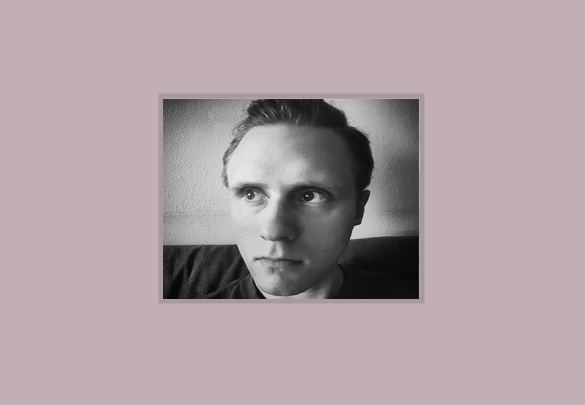
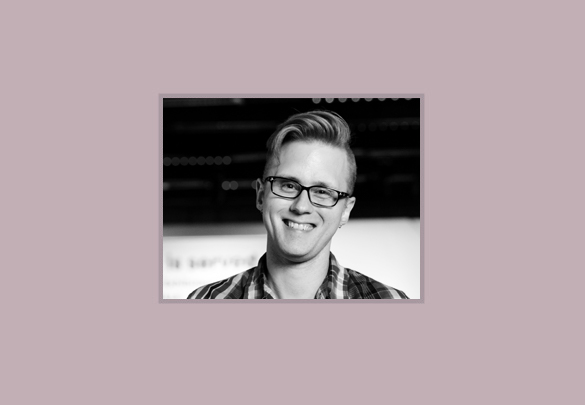
Add new organiser photos

Changed region(s): [[0.2769, 0.237, 0.7385, 0.7407]]

diff --git a/README.md b/README.md
@@ -1,1 +1,2 @@
-# Vitis-Events.github.io
+# Vitis Events Web Site
+This is the web site source for http://vitisevents.com. It is a static web site using jekyll to generate the source. 
